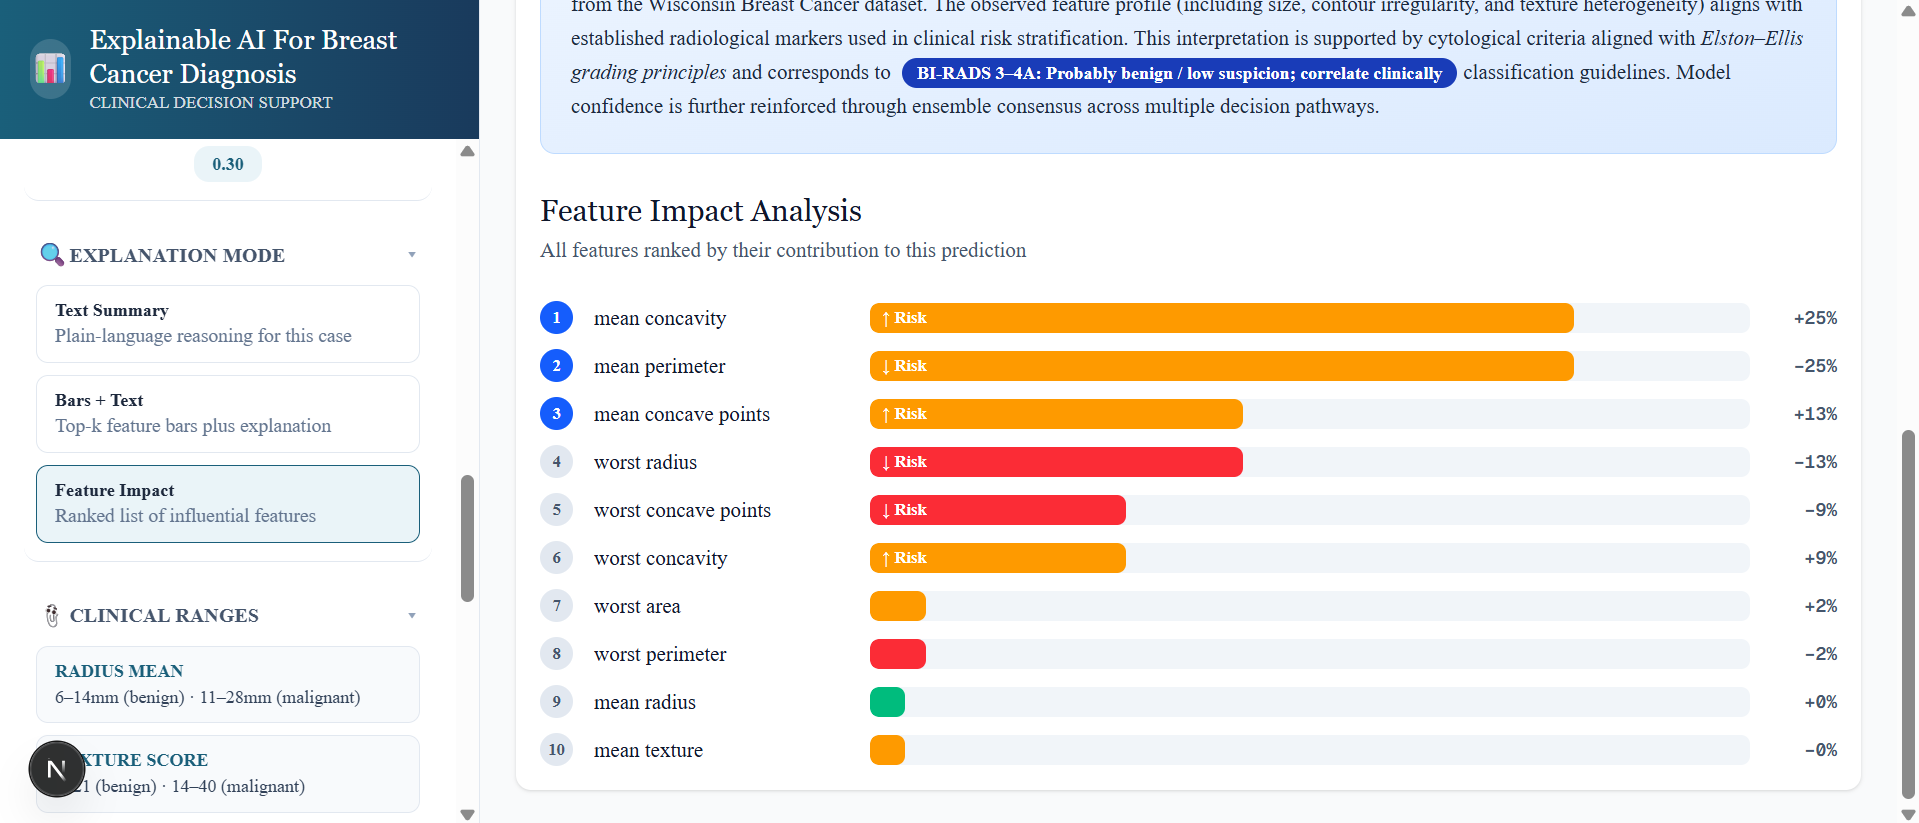
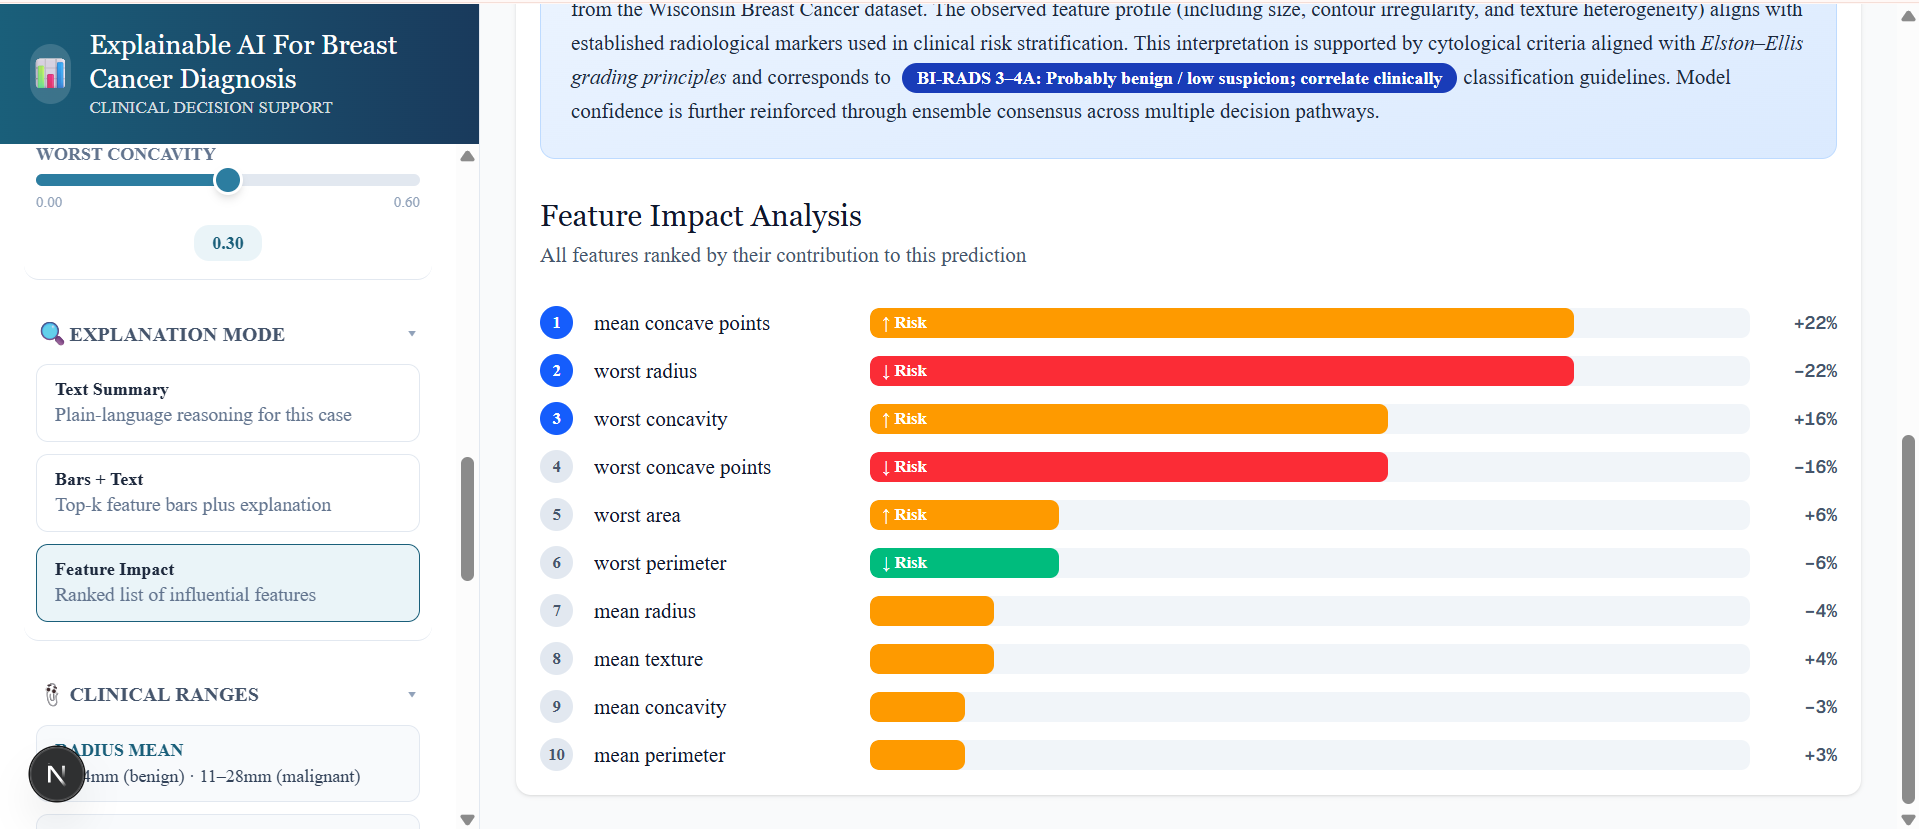
Updated Readme-18

diff --git a/README.md b/README.md
@@ -1,19 +1,24 @@
 # 🧬 Explainable AI for Breast Cancer Diagnosis
 
 <p align="center">
-  <img src="https://readme-typing-svg.demolab.com?font=Fira+Code&size=22&duration=2500&pause=800&color=00D9FF&center=true&vCenter=true&width=850&lines=Machine+Learning+%C3%97+Explainable+AI+%C3%97+Fullstack+Development;SHAP+%C3%97+FastAPI+%C3%97+Next.js;Predict.+Explain.+Understand.;Building+Transparent+AI+Systems." alt="Animated project tagline">
+  <img src="https://readme-typing-svg.demolab.com?font=Fira+Code&size=22&duration=2500&pause=800&color=00D9FF&center=true&vCenter=true&width=850&lines=Machine+Learning+%C3%97+Explainable+AI+%C3%97+Full-Stack+Development;SHAP+%C3%97+FastAPI+%C3%97+Next.js;Predict.+Explain.+Understand.;Building+Transparent+AI+Systems." alt="Animated project tagline">
 </p>
 
 <p align="center">
-  An interactive clinical decision-support prototype that combines ML predictions with human-readable SHAP explanations.
+  An explainable decision-support prototype: a system where clinicians can see predictions, understand why the model decided that way, compare multiple algorithms on the same patient, and export a structured report.
 </p>
 
 <p align="center">
-  <img src="https://img.shields.io/badge/Machine%20Learning-00D9FF?style=for-the-badge&logoColor=white">
+  <img src="https://img.shields.io/badge/Machine%20Learning-00D9FF?style=for-the-badge&logo=scikitlearn&logoColor=white">
   <img src="https://img.shields.io/badge/Explainable%20AI-7B61FF?style=for-the-badge">
   <img src="https://img.shields.io/badge/FastAPI-009688?style=for-the-badge&logo=fastapi&logoColor=white">
   <img src="https://img.shields.io/badge/Next.js-000000?style=for-the-badge&logo=next.js&logoColor=white">
 </p>
+
+> 🔒 **Portfolio Project — All Rights Reserved**
+>
+> This repository is publicly available for demonstration and evaluation.
+> Please do not reuse or redistribute the source code without permission.
 
 ## 🧠 The Problem
 
@@ -81,11 +86,11 @@ But...
                     │      FastAPI Backend     │
                     │         Python           │
                     ├──────────────────────────┤
-                    │ Prediction API            │
-                    │ Model Selection           │
-                    │ Preprocessing             │
+                    │ Prediction API           │
+                    │ Model Selection          │
+                    │ Preprocessing            │
                     │ SHAP Explanations        │
-                    │ Summary Generation        │
+                    │ Summary Generation       │
                     └────────────┬─────────────┘
                                  │
               ┌──────────────────┼──────────────────┐
@@ -118,7 +123,7 @@ But...
 
 [![Next.js](https://img.shields.io/badge/Next.js-000000?style=flat-square&logo=next.js&logoColor=white)](https://nextjs.org/)
 [![TypeScript](https://img.shields.io/badge/TypeScript-3178C6?style=flat-square&logo=typescript&logoColor=white)](https://www.typescriptlang.org/)
-[![CSS](https://img.shields.io/badge/CSS-1572B6?style=flat-square&logo=css3&logoColor=white)](https://developer.mozilla.org/en-US/docs/Web/CSS)
+[![Tailwind CSS](https://img.shields.io/badge/Tailwind_CSS-06B6D4?style=flat-square&logo=tailwindcss&logoColor=white)](https://tailwindcss.com/)
 
 ### Backend
 
@@ -176,18 +181,18 @@ But...
 
 The model doesn't simply return:
 
-> **Malignant — 56.3%**
+> **Malignant — 56.0%**
 
 It also identifies the features contributing to that prediction.
 
 | Feature | Influence |
 |---|---|
-| Radius | ↑ Malignant |
-| Concavity | ↑ Malignant |
-| Perimeter | ↑ Malignant |
-| Texture | ↓ Lower influence |
+| Mean Concave Points | ↑ Elevated influence |
+| Worst Radius| ↓ Lower influence |
+| Worst Concavity | ↑ Elevated influence |
+| Worst Concave Points | ↓ Elevated influence |
+| Worst Area | ↑ Elevated influence |
 
-If you already have SHAP plots from your notebook, absolutely put them here.
 ---
 
 ## 🔎 SHAP Explainability
@@ -223,13 +228,13 @@ This allows users to understand **why** a prediction was produced instead of see
 
 ## ✨ Feature Gallery
 
-| Malignant/Benign Prediction | Explainability |
-|---|---|
-| ![Hero section prediction dashboard](my-frontend/public/hero-section-prediction.png) | ![Explainability section](my-frontend/public/Explainability.png) |
+| Malignant/Benign Prediction | Explainability | Login/Signup | 
+|---|---|---|
+| ![Hero section prediction dashboard](my-frontend/public/hero-section-prediction.png) | ![Explainability section](my-frontend/public/explainability.png) | ![Login Signup](my-frontend/public/login-signup.png) |
 
-| Model Confidence | Export Diagnostic Reports |
-|---|---|
-| ![Model Confidence section](my-frontend/public/model-confidence.png) | ![Diagnosis Export Report](my-frontend/public/diagnosis-report.png) |
+| Model Confidence | Export Diagnostic Reports | Feature Importance |
+|---|---|---|
+| ![Model Confidence section](my-frontend/public/model-confidence.png) | ![Diagnosis Export Report](my-frontend/public/diagnosis-report.png) | | ![Feature Importance](my-frontend/public/feature-importance.png) |
 
 ---
 
@@ -312,29 +317,37 @@ The trained models and preprocessing components are loaded by the backend when t
 explainable-ai-breast-cancer/
 │
 ├── backend/
+|   ├── _pycache_/
 │   ├── main.py
 │   ├── summary_generator.py
 │   ├── requirements.txt
-│   ├── models/
-│   ├── preprocessing/
+│   ├── models.pkl
+│   ├── preprocessing.npy
 │   └── Dockerfile
 │
 ├── frontend/
+|   ├── .next/
 │   ├── app/
 │   ├── components/
+|   ├── lib/
+|   ├── node_modules/
 │   ├── public/
+|   ├── .env.local
+|   ├── .gitignore
+|   ├── components.json
+|   ├── eslint.config.mjs
+|   ├── next-env.d.ts
+|   ├── next.config.ts
+|   ├── package-lock.json
 │   ├── package.json
+|   ├── postcss.config.mjs
+|   ├── README.md
 │   └── tsconfig.json
 │
-├── notebooks/
-│   └── model_training.ipynb
-│
-├── reports/
+├── docker-compose.yml
 │
 └── README.md
 ~~~
-
-> Adjust this structure to match your actual repository.
 
 ---
 
@@ -405,6 +418,16 @@ Potential future improvements include:
 
 ---
 
+## 📚 Project Resources
+
+🎥 [**Demo Video**](https://youtu.be/Y90TX0RYJr4)
+
+🖼 [**Project Poster**](my-frontend/public/poster.png)
+
+📄 [**Read Project Documentation**](my-frontend/public/Project_Report.pdf)
+
+---
+
 ## 📜 Disclaimer
 
 This software is an **academic proof-of-concept** developed for educational and research purposes.
@@ -412,14 +435,6 @@ This software is an **academic proof-of-concept** developed for educational and 
 It has not undergone clinical validation, regulatory approval, or formal clinician usability evaluation.
 
 **The predictions and explanations generated by this application must not be used as a substitute for professional medical diagnosis or clinical judgement.**
-
----
-
-## 📚 Project Resources
-
-[![Project Poster](my-frontend/public/poster.png)]
-
-📄 [**Read Project Documentation**](my-frontend/public/Project_Report.pdf)
 
 ---
 
